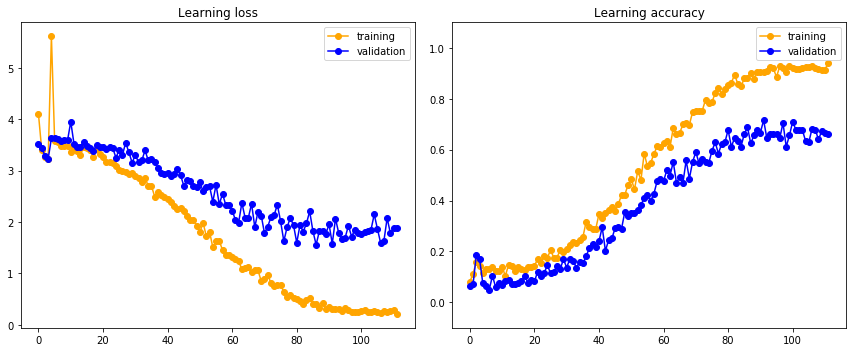
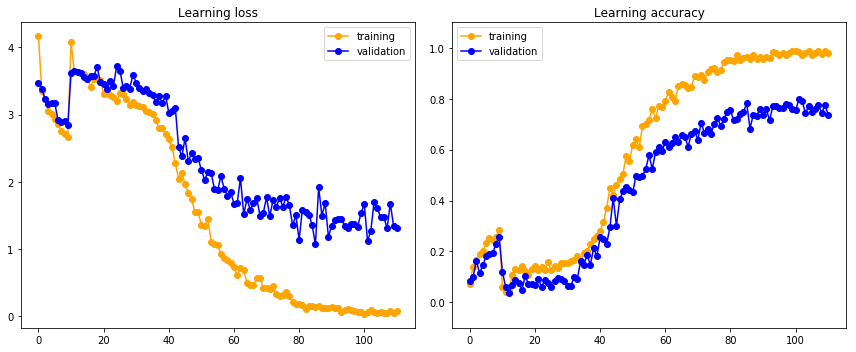
updated readme, chart and conclusion after last training

diff --git a/README.md b/README.md
@@ -57,7 +57,7 @@ Dropout between two fully-connected layers was set to 0.4
 
 |Warmup epochs|Pretrained unfreeze|Validation accuracy|
 |---|---|---|
-|4|last 4 layers| > 70% |
+|10|last 4 layers| ~ 78% |
 |full|no|~ 70% |
 |10|all layers|~ 60%|
 |no|all layers| no convergence|
